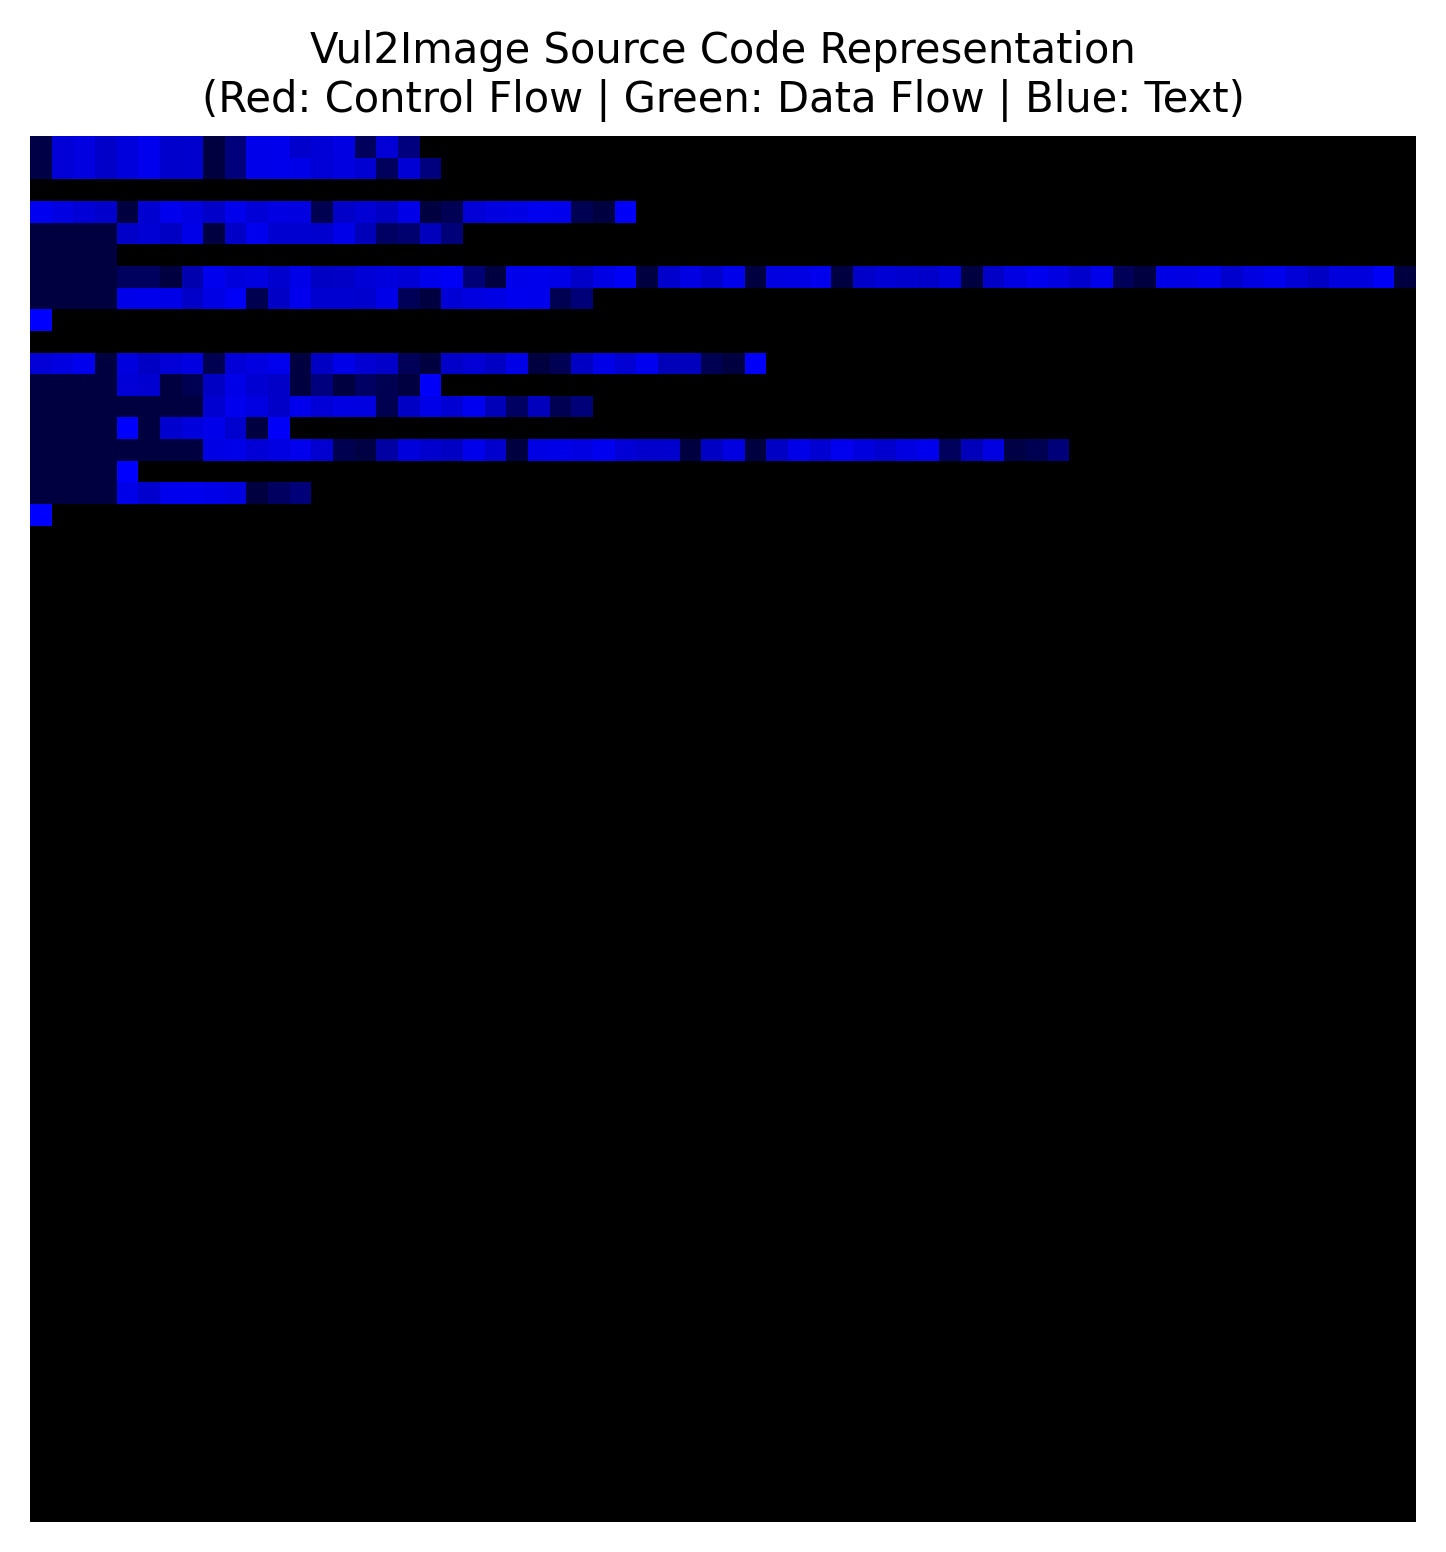
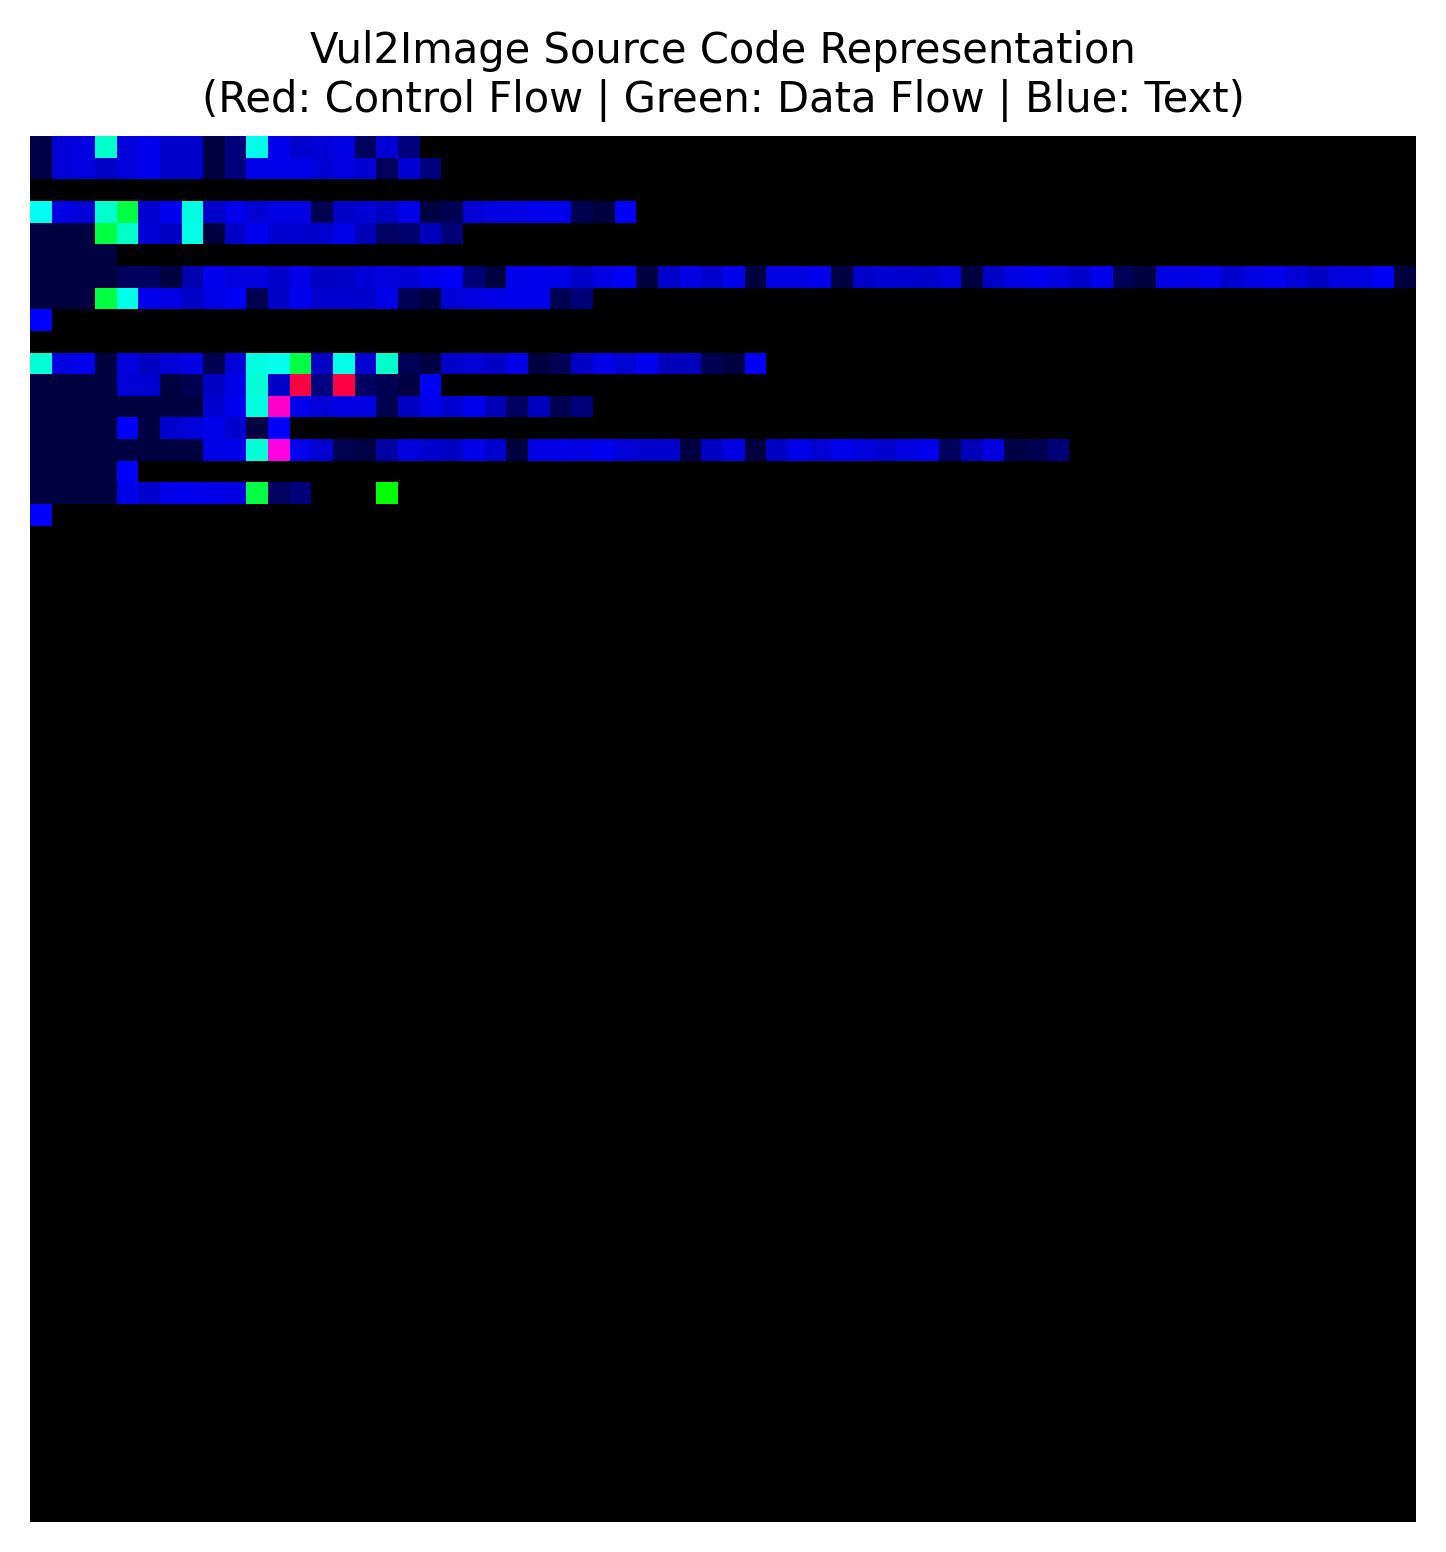
feat: first version of the vul2image algorihtm that works perfectly, added a parse of .dot files, changed the way it extracts ddg and cdg

diff --git a/code/algorithm.py b/code/algorithm.py
@@ -1,5 +1,7 @@
 import subprocess
 import os
+import re
+import shutil
 import numpy as np
 import pandas as pd
 
@@ -45,28 +47,18 @@ class Vul2ImageConverter:
         """
         matrix = np.zeros((self.max_lines, self.max_lines), dtype=np.float32)
         n = min(len(lines), self.max_lines)
-        
-        # Input is a Pandas DataFrame from Joern CSV
-        if isinstance(dependencies, pd.DataFrame) and not dependencies.empty:
-            for _, row in dependencies.iterrows():
-                try:
-                    u = int(row.get('startLine', row.get('source_line', 0))) - 1
-                    v = int(row.get('endLine', row.get('target_line', 0))) - 1
-                    weight = float(row.get('weight', 1.0))
-                    if 0 <= u < n and 0 <= v < n:
-                        matrix[u, v] = weight * 255.0
-                        matrix[v, u] = weight * 255.0
-                except (ValueError, TypeError):
-                    continue
                     
         # Input is a list of tuples (u, v, weight)
-        elif isinstance(dependencies, list):
+        if isinstance(dependencies, list):
             for item in dependencies:
                 if len(item) == 3:
                     u, v, weight = item
-                    if 0 <= u < n and 0 <= v < n:
-                        matrix[u, v] = float(weight) * 255.0
-                        matrix[v, u] = float(weight) * 255.0
+                    # Convert 1-based Joern line numbers to 0-based Python indices
+                    u_idx = int(u) - 1
+                    v_idx = int(v) - 1
+                    if 0 <= u_idx < n and 0 <= v_idx < n:
+                        matrix[u_idx, v_idx] = float(weight) * 255.0
+                        matrix[v_idx, u_idx] = float(weight) * 255.0
                         
         return matrix
 
@@ -79,6 +71,7 @@ class Vul2ImageConverter:
         :param data_dependencies: Edges representing data flow (e.g., variable usage). Format: [(u, v, weight), ...]
         :return: Numpy array of shape (3, max_lines, max_lines) representing the RGB image.
         """
+        
         # Red Channel: Control Dependency Graph (CDG) Matrix
         red_channel = self._dependency_to_matrix(control_dependencies, code_lines)
 
@@ -104,6 +97,47 @@ def read_sourceFile(file_path):
         code_lines = [line.rstrip('\n').rstrip('\r') for line in f.readlines()]
     return code_lines
 
+def parseDotFiles(dot):
+    """
+    Parses all Joern-exported .dot files in a directory to extract line-to-line dependency edges (line_i, line_y, weight)
+
+    :param dot: the path of the directory containing the .dot files
+    :return: the edges of each graph
+    """
+    edges = []
+
+    if not os.path.exists(dot):
+        print(f"[-] Error: {dot} not found.")
+        return edges
+
+    for filename in os.listdir(dot):
+         if filename.endswith(".dot"):
+                filepath = os.path.join(dot, filename)
+                node_lines = {}
+
+                with open(filepath, 'r', encoding='utf-8', errors='ignore') as f:
+                   content = f.read()
+
+                node_matches = re.findall(r'"([^"]+)"\s*\[(.*?)\]', content, re.DOTALL)
+                for node_id, attrs in node_matches:
+                        node_id = node_id.strip()
+                        line_match = re.search(r'(?:,\s*|)(\d+)<BR/>', attrs)
+                        if line_match:
+                            node_lines[node_id] = int(line_match.group(1))
+                    
+                #Extract edges connecting nodes: "node1" -> "node2"
+                edge_matches = re.findall(r'"([^"]+)"\s*->\s*"([^"]+)"', content)
+                for src, dst in edge_matches:
+                        src = src.strip()
+                        dst = dst.strip()
+                        
+                        # Map node IDs to actual source code line numbers
+                        if src in node_lines and dst in node_lines:
+                            edges.append((node_lines[src], node_lines[dst], 1.0))
+                        
+    return edges
+
+
 def joernPipeline(source):
     """
     Automatically triggers Joern commands from inside Python.
@@ -111,6 +145,14 @@ def joernPipeline(source):
     
     :param source: the source file for detection
     """
+    for export_dir in ["export_cdg", "export_ddg"]:
+        if os.path.exists(export_dir):
+            try:
+                shutil.rmtree(export_dir)
+                print(f"[*] Cleared old directory: {export_dir}")
+            except Exception as e:
+                print(f"[-] Warning: Could not delete {export_dir}: {e}")
+    
     cmd = [JOERN_PARSE, source, "-o", "cpg.bin"]
     parse = subprocess.run(cmd, capture_output=True, text=True, shell=True)
 
@@ -126,16 +168,33 @@ def joernPipeline(source):
     print("[+] Parsing complete. CPG generated successfully.")
     
     # Export Control Dependency Graph (CDG)
-    subprocess.run([JOERN_EXPORT, "--repr", "cdg", "--format", "csv", "--out", "export_cdg"], capture_output=True, text=True, shell=True)
+    parse = subprocess.run([JOERN_EXPORT, "cpg.bin", "--repr", "cdg", "--format", "dot", "--out", "export_cdg"], capture_output=True, text=True, shell=True)
+    if parse.stdout:
+            print("[Joern STDOUT]:", parse.stdout)
+    if parse.stderr:
+            print("[Joern STDERR]:", parse.stderr)
+            
+    if parse.returncode != 0:
+            print(f"[-] Joern parsing failed with exit code {parse.returncode}")
+            return False
     
     # Export Data Dependency Graph (DDG)
-    subprocess.run([JOERN_EXPORT, "--repr", "ddg", "--format", "csv", "--out", "export_ddg"], capture_output=True, text=True, shell=True)
+    parse = subprocess.run([JOERN_EXPORT, "cpg.bin", "--repr", "ddg", "--format", "dot", "--out", "export_ddg"], capture_output=True, text=True, shell=True)
+
+    if parse.stdout:
+            print("[Joern STDOUT]:", parse.stdout)
+    if parse.stderr:
+            print("[Joern STDERR]:", parse.stderr)
+            
+    if parse.returncode != 0:
+            print(f"[-] Joern parsing failed with exit code {parse.returncode}")
+            return False
     
     print("[+] Joern export complete!")
     return True
 
 if __name__ == "__main__":
-    file = "vul2image/test/vulnerable.c"
+    file = "test/vulnerable.c"
 
     if not os.path.exists(file):
         print(f"[-] Error: {file} not found.")
@@ -146,23 +205,17 @@ if __name__ == "__main__":
     if success:
         #Read the file
         lines = read_sourceFile(file)
-        cdg_path = os.path.join("export_cdg", "edges.csv")
-        ddg_path = os.path.join("export_ddg", "edges.csv")
-        try:
-            # Extract CDG and DDG from joern csv files
-            cdg = pd.read_csv(cdg_path) if os.path.exists(cdg_path) else pd.DataFrame(columns=['startLine', 'endLine', 'weight'])
-            ddg = pd.read_csv(ddg_path) if os.path.exists(ddg_path) else pd.DataFrame(columns=['startLine', 'endLine', 'weight'])
-
-        except FileNotFoundError:
-            print("[-] Dependency CSVs not found yet. Make sure your export step generated them.")
-            cdg = pd.DataFrame()
-            ddg = pd.DataFrame()
+        cdg_edges = parseDotFiles("export_cdg")
+        ddg_edges = parseDotFiles("export_ddg")
+        print(f"[+] Extracted {len(cdg_edges)} Control Dependency edges (CDG).")
+        print(f"[+] Extracted {len(ddg_edges)} Data Dependency edges (DDG).")
         
         converter = Vul2ImageConverter(max_lines=64)
-        rgbImage = converter.convert(lines, cdg, ddg)
+        rgbImage = converter.convert(lines, cdg_edges, ddg_edges)
 
         print("--- Automated Vul2Image Pipeline Finished ---")
         print(f"Final Image Tensor Shape (C, H, W): {rgbImage.shape}")
         
         # Save output for CNN
         np.save("vulnerabilitesImg.npy", rgbImage)
+        

diff --git a/tools/plot.py b/tools/plot.py
@@ -16,7 +16,7 @@ plt.imshow(img_array)
 plt.title("Vul2Image Source Code Representation\n(Red: Control Flow | Green: Data Flow | Blue: Text)", fontsize=10)
 plt.axis("off")
 
-plt.savefig("vulnerability_visualization.png", bbox_inches='tight', dpi=300)
-print("Saved visualization as 'vulnerability_visualization.png'")
+plt.savefig("vul2imaqge.png", bbox_inches='tight', dpi=300)
+print("Saved visualization as 'vul2image.png'")
 
 plt.show()
